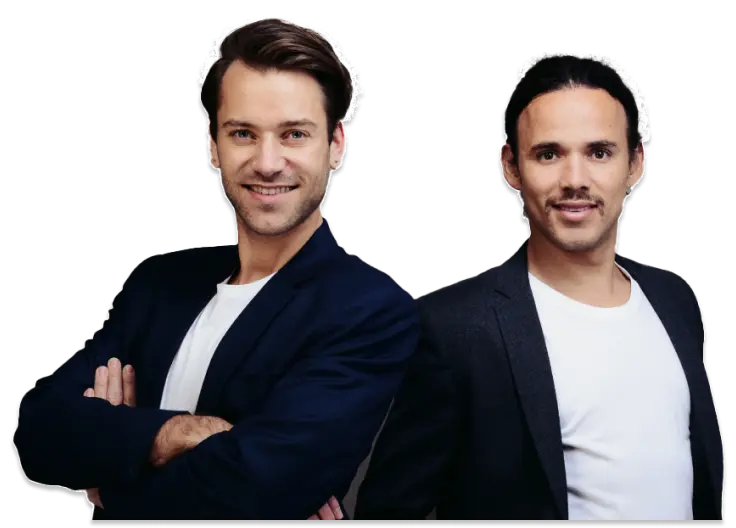
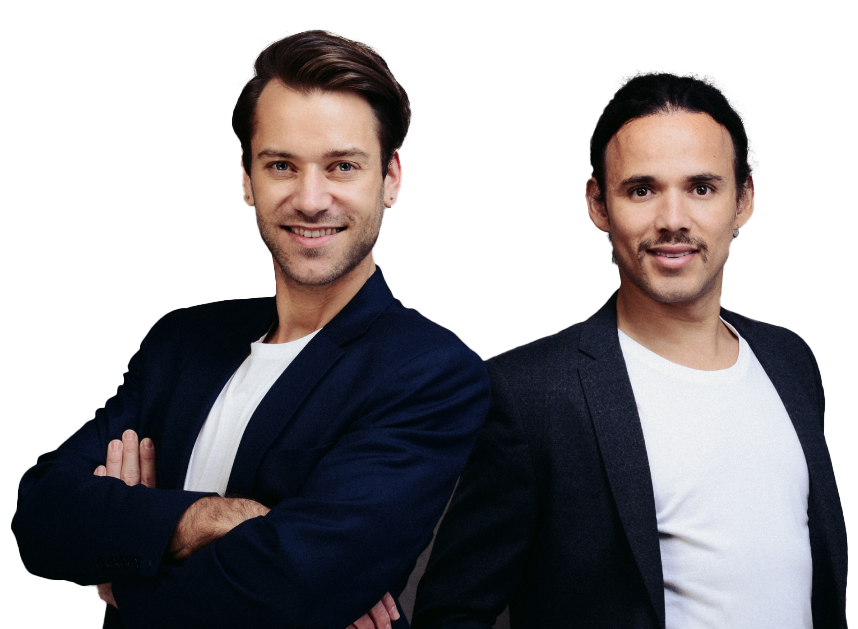
feat: Presentation in for companies page

diff --git a/src/modules/companies/components/Presentation/styles.ts b/src/modules/companies/components/Presentation/styles.ts
@@ -1,0 +1,110 @@
+import styled from "styled-components";
+import { breakpoints } from "utils/constants";
+
+export const Container = styled.div`
+    position: relative;
+    width: 100%;
+
+    background: #128FC8;
+`;
+
+export const Wrapper = styled.div`
+    display: flex;
+    flex-flow: column nowrap;
+    align-items: center;
+    gap: 1rem;
+
+    width: 100%;
+    max-width: 1225px;
+    padding-top: 50px;
+
+    background: #128FC8;
+
+    @media (min-width: ${breakpoints.desktop.max}px) {
+        align-items: start;
+        padding-top: 80px;
+        padding-bottom: 150px;
+    }
+`;
+
+
+export const Title = styled.h1`
+    max-width: 520px;
+
+    font-size: 2.75rem;
+    font-weight: 600;
+    text-align: center;
+    line-height: 1.25;
+    color: white;
+
+    text-shadow: 0 4px 4px #00000040;
+
+    span {
+        color: #05335B;
+
+        &:first-of-type {
+            color: #FFDB5C;
+        }
+    }
+
+    @media (min-width: ${breakpoints.desktop.max}px) {
+        text-align: left;
+        max-width: 800px;
+        font-size: 3.75rem;
+    }
+`;
+
+export const Description = styled.p`
+    font-size: 1rem;
+    font-weight: 400;
+    text-align: center;
+    max-width: 350px;
+    line-height: 1.75;
+    color: white;
+
+    @media (min-width: ${breakpoints.desktop.max}px) {
+        text-align: left;
+        max-width: 600px;
+        font-size: 1.5rem;
+    }
+`;
+
+export const Button = styled.button`
+    display: flex;
+    align-items: center;
+    justify-content: center;
+
+    padding: 10px 15px;
+    border-radius: 2rem;
+
+    font-size: 1rem;
+    font-weight: 600;
+    color: #05335B;
+    background: #FFDB5C;
+
+    box-shadow: 0 15px 30px #00000040;
+
+    @media (min-width: ${breakpoints.desktop.max}px) {
+        padding: 20px 40px;
+        font-size: 1.25rem;
+        border-radius: 3rem;
+    }
+`;
+
+export const ImageBox = styled.div`
+    position: relative;
+    width: 100%;
+    aspect-ratio: 1.4;
+
+    overflow: hidden;
+
+    @media (min-width: ${breakpoints.desktop.max}px) {
+        position: absolute;
+        bottom: 0;
+        right: -5px;
+
+        width: calc(100% - 600px);
+
+        max-height: 560px;
+    }
+`;

diff --git a/src/modules/companies/components/Presentation/index.tsx b/src/modules/companies/components/Presentation/index.tsx
@@ -1,0 +1,39 @@
+import React from "react";
+import {
+  Button,
+  Wrapper,
+  Description,
+  ImageBox,
+  Title,
+  Container,
+} from "./styles";
+import Image from "next/image";
+
+export const Presentation = () => {
+  return (
+    <Container>
+      <Wrapper>
+        <Title>
+          We match skilled International <span>TALENTS</span> with your{" "}
+          <span>COMPANY</span>
+        </Title>
+        <Description>
+          Are you looking for Skilled International Talents for your open
+          positions?
+        </Description>
+        <Button>Find experts now</Button>
+        <ImageBox>
+          <Image
+            fill
+            style={{
+              objectFit: "contain",
+              objectPosition: "bottom",
+            }}
+            src="/assets/main-hero-photo.webp"
+            alt="Founders Presenteation Photo"
+          />
+        </ImageBox>
+      </Wrapper>
+    </Container>
+  );
+};

diff --git a/src/modules/companies/styles.ts b/src/modules/companies/styles.ts
@@ -1,0 +1,25 @@
+import styled from "styled-components";
+import { breakpoints } from "utils/constants";
+
+export const Container = styled.main`
+    display: flex;
+    flex-flow: column nowrap;
+    align-items: center;
+
+    width: 100%;
+    margin-top: 60px;
+
+    background: white;
+
+    & > * {
+        padding: 0 40px;
+
+        @media (min-width: ${breakpoints.desktop.max}px) {
+            padding: 0 125px;
+        }
+    }
+
+    @media (min-width: ${breakpoints.desktop.max}px) {
+        margin-top: 90px;
+    }
+`

diff --git a/pages/companies/index.tsx b/pages/companies/index.tsx
@@ -1,0 +1,14 @@
+import HeaderForCandidates from "@/components/HeaderForCandidates";
+import { CompaniesModule } from "@/modules/companies";
+import React from "react";
+
+const Companies = () => {
+  return (
+    <>
+      <HeaderForCandidates />
+      <CompaniesModule />
+    </>
+  );
+};
+
+export default Companies;

diff --git a/utils/constants.ts b/utils/constants.ts
@@ -1,0 +1,16 @@
+export const breakpoints = {
+    smaller: 319,
+    mobile: {
+        min: 320,
+        max: 480,
+    },
+    tablet: {
+        min: 481,
+        max: 768,
+    },
+    desktop: {
+        min: 769,
+        max: 1160,
+    },
+    larger: 1161
+}

diff --git a/src/modules/companies/index.tsx b/src/modules/companies/index.tsx
@@ -1,0 +1,11 @@
+import React from 'react'
+import { Container } from './styles'
+import { Presentation } from './components/Presentation'
+
+export const CompaniesModule = () => {
+  return (
+    <Container>
+        <Presentation />
+    </Container>
+  )
+}
